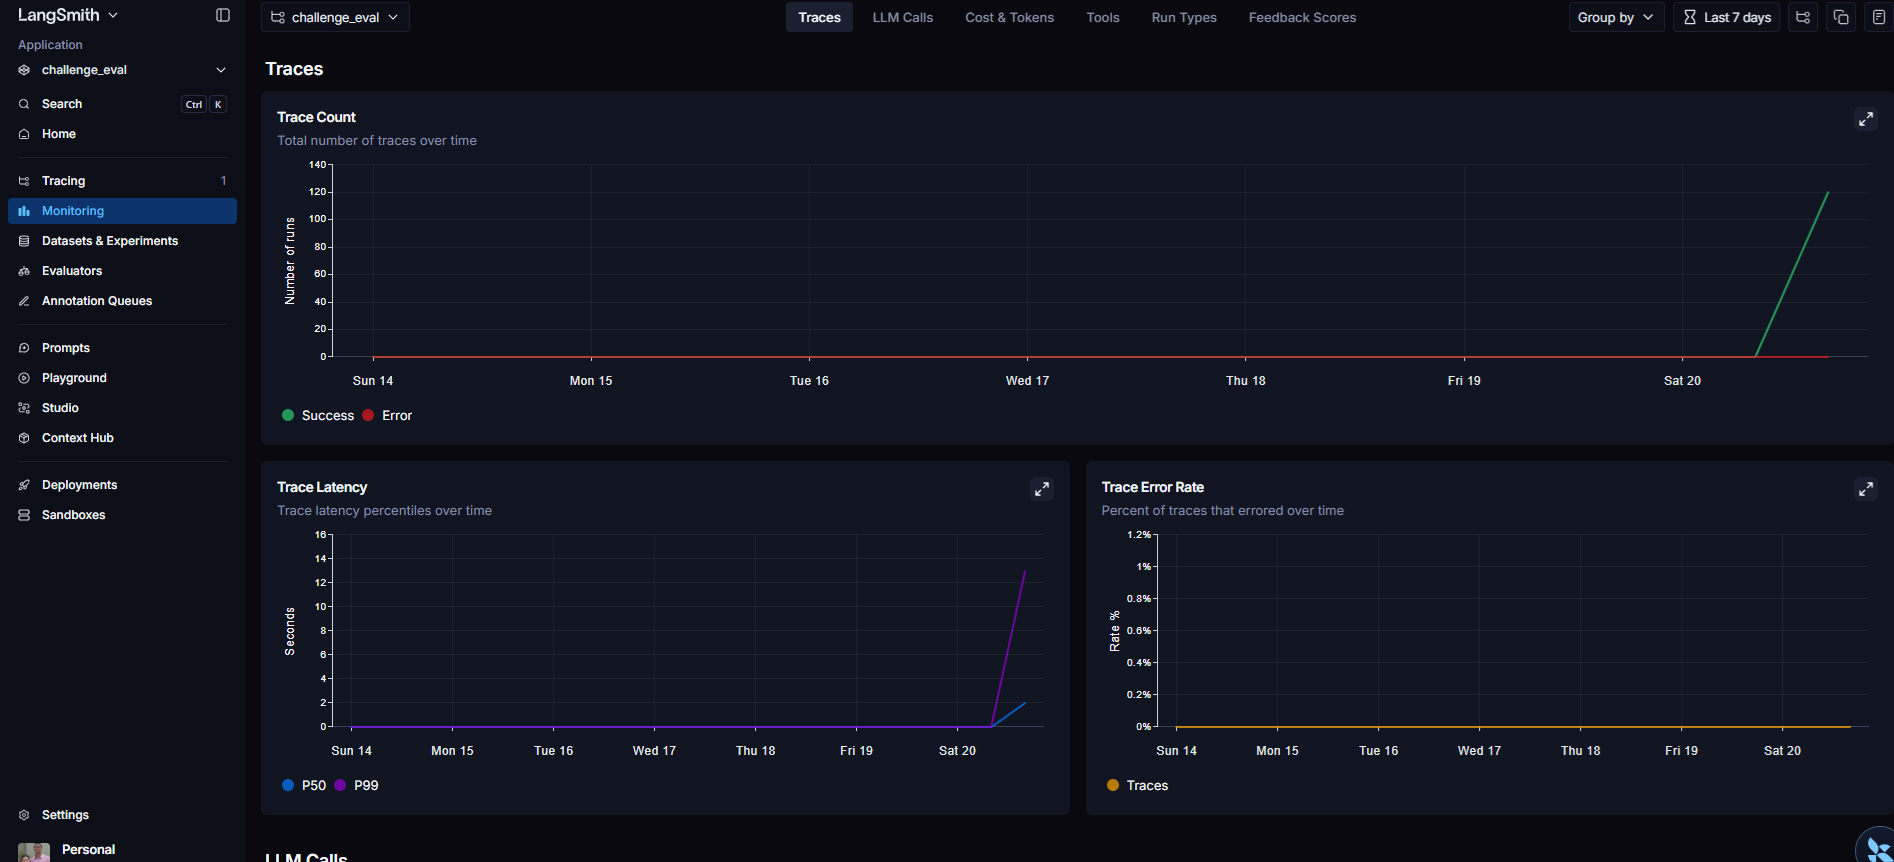
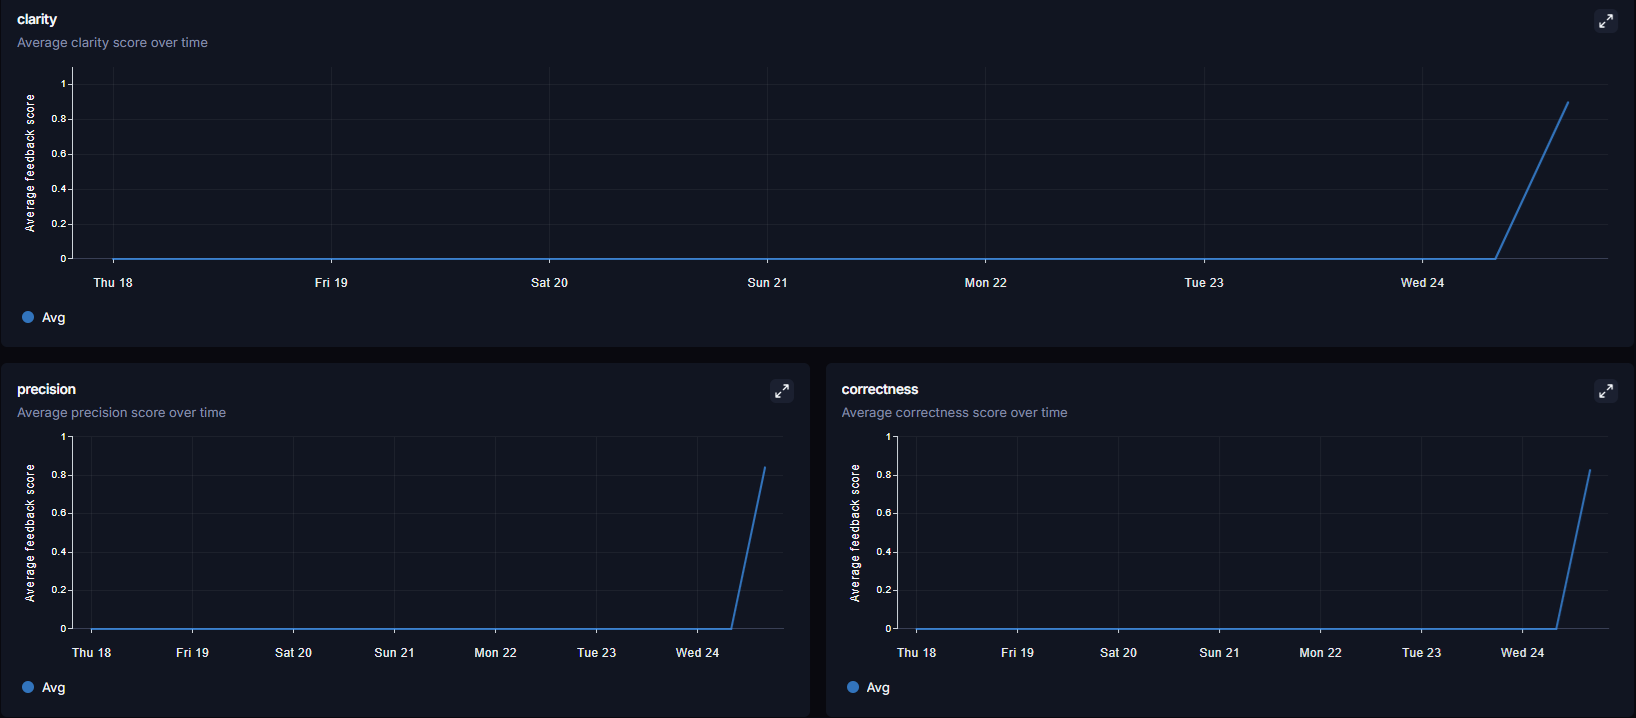
fix: ajustado read-me e print do dash

diff --git a/README.md b/README.md
@@ -1,321 +1,16 @@
 # Pull, Otimização e Avaliação de Prompts com LangChain e LangSmith
 
-## Objetivo
+  ### Como Executar
 
-Você deve entregar um software capaz de:
+  Esta seção descreve o fluxo completo para instalar dependências, configurar variáveis de ambiente, publicar prompt otimizado no LangSmith e rodar validações locais.
 
-1. **Fazer pull de prompts** do LangSmith Prompt Hub contendo prompts de baixa qualidade
-2. **Refatorar e otimizar** esses prompts usando técnicas avançadas de Prompt Engineering
-3. **Fazer push dos prompts otimizados** de volta ao LangSmith
-4. **Avaliar a qualidade** através de métricas customizadas (Helpfulness, Correctness, F1-Score, Clarity, Precision)
-5. **Atingir pontuação mínima** de 0.9 (90%) em todas as métricas de avaliação
-
----
-
-## Exemplo no CLI
-
-**Exemplo de prompt RUIM (v1) — apenas ilustrativo, para você entender o ponto de partida:**
-
-```
-==================================================
-Prompt: {seu_username}/bug_to_user_story_v1
-==================================================
-
-Métricas Derivadas:
-  - Helpfulness: 0.45 ✗
-  - Correctness: 0.52 ✗
-
-Métricas Base:
-  - F1-Score: 0.48 ✗
-  - Clarity: 0.50 ✗
-  - Precision: 0.46 ✗
-
-❌ STATUS: REPROVADO
-⚠️  Métricas abaixo de 0.9: helpfulness, correctness, f1_score, clarity, precision
-```
-
-**Exemplo de prompt OTIMIZADO (v2) — seu objetivo é chegar aqui:**
-
-```bash
-# Após refatorar os prompts e fazer push
-python src/push_prompts.py
-
-# Executar avaliação
-python src/evaluate.py
-
-Executando avaliação dos prompts...
-==================================================
-Prompt: {seu_username}/bug_to_user_story_v2
-==================================================
-
-Métricas Derivadas:
-  - Helpfulness: 0.94 ✓
-  - Correctness: 0.96 ✓
-
-Métricas Base:
-  - F1-Score: 0.93 ✓
-  - Clarity: 0.95 ✓
-  - Precision: 0.92 ✓
-
-✅ STATUS: APROVADO - Todas as métricas >= 0.9
-```
----
-
-## Tecnologias obrigatórias
-
-- **Linguagem:** Python 3.9+
-- **Framework:** LangChain
-- **Plataforma de avaliação:** LangSmith
-- **Gestão de prompts:** LangSmith Prompt Hub
-- **Formato de prompts:** YAML
-
----
-
-## Pacotes recomendados
-
-```python
-from langchain import hub  # Pull e Push de prompts
-from langsmith import Client  # Interação com LangSmith API
-from langsmith.evaluation import evaluate  # Avaliação de prompts
-from langchain_openai import ChatOpenAI  # LLM OpenAI
-from langchain_google_genai import ChatGoogleGenerativeAI  # LLM Gemini
-```
-
----
-
-## OpenAI
-
-- Crie uma **API Key** da OpenAI: https://platform.openai.com/api-keys
-- **Modelo de LLM para responder**: `gpt-4o-mini`
-- **Modelo de LLM para avaliação**: `gpt-4o`
-- **Custo estimado:** ~$1-5 para completar o desafio
-
-## Gemini (modelo free)
-
-- Crie uma **API Key** da Google: https://aistudio.google.com/app/apikey
-- **Modelo de LLM para responder**: `gemini-2.5-flash`
-- **Modelo de LLM para avaliação**: `gemini-2.5-flash`
-- **Limite:** 15 req/min, 1500 req/dia
-
----
-
-## Requisitos
-
-### 1. Pull do Prompt inicial do LangSmith
-
-O repositório base já contém prompts de **baixa qualidade** publicados no LangSmith Prompt Hub. Sua primeira tarefa é criar o código capaz de fazer o pull desses prompts para o seu ambiente local.
-
-**Tarefas:**
-
-1. Configurar suas credenciais do LangSmith no arquivo `.env` (conforme o arquivo `.env.example`)
-2. Implementar o script `src/pull_prompts.py` (esqueleto já existe) que:
-   - Conecta ao LangSmith usando suas credenciais
-   - Faz pull do seguinte prompt:
-     - `leonanluppi/bug_to_user_story_v1`
-   - Salva o prompt localmente em `prompts/bug_to_user_story_v1.yml`
-
----
-
-### 2. Otimização do Prompt
-
-Agora que você tem o prompt inicial, é hora de refatorá-lo usando as técnicas de prompt aprendidas no curso.
-
-**Tarefas:**
-
-1. Analisar o prompt em `prompts/bug_to_user_story_v1.yml`
-2. Criar um novo arquivo `prompts/bug_to_user_story_v2.yml` com suas versões otimizadas
-3. Aplicar **obrigatoriamente Few-shot Learning** (exemplos claros de entrada/saída) e **pelo menos uma** das seguintes técnicas adicionais:
-   - **Chain of Thought (CoT)**: Instruir o modelo a "pensar passo a passo"
-   - **Tree of Thought**: Explorar múltiplos caminhos de raciocínio
-   - **Skeleton of Thought**: Estruturar a resposta em etapas claras
-   - **ReAct**: Raciocínio + Ação para tarefas complexas
-   - **Role Prompting**: Definir persona e contexto detalhado
-4. Documentar no `README.md` quais técnicas você escolheu e por quê
-
-**Requisitos do prompt otimizado:**
-
-- Deve conter **instruções claras e específicas**
-- Deve incluir **regras explícitas** de comportamento
-- Deve ter **exemplos de entrada/saída** (Few-shot) — **obrigatório**
-- Deve incluir **tratamento de edge cases**
-- Deve usar **System vs User Prompt** adequadamente
-
----
-
-### 3. Push e Avaliação
-
-Após refatorar os prompts, você deve enviá-los de volta ao LangSmith Prompt Hub.
-
-**Tarefas:**
-
-1. Implementar o script `src/push_prompts.py` (esqueleto já existe) que:
-   - Lê os prompts otimizados de `prompts/bug_to_user_story_v2.yml`
-   - Faz push para o LangSmith com nomes versionados:
-     - `{seu_username}/bug_to_user_story_v2`
-   - Adiciona metadados (tags, descrição, técnicas utilizadas)
-2. Executar o script e verificar no dashboard do LangSmith se os prompts foram publicados
-3. Deixá-lo público
-
----
-
-### 4. Iteração
-
-- Espera-se 3-5 iterações.
-- Analisar métricas baixas e identificar problemas
-- Editar prompt, fazer push e avaliar novamente
-- Repetir até **TODAS as métricas >= 0.9**
-
-### Critério de Aprovação:
-
-```
-- Helpfulness >= 0.9
-- Correctness >= 0.9
-- F1-Score >= 0.9
-- Clarity >= 0.9
-- Precision >= 0.9
-
-MÉDIA das 5 métricas >= 0.9
-```
-
-**IMPORTANTE:** TODAS as 5 métricas devem estar >= 0.9, não apenas a média!
-
-### 5. Testes de Validação
-
-**O que você deve fazer:** Edite o arquivo `tests/test_prompts.py` e implemente, no mínimo, os 6 testes abaixo usando `pytest`:
-
-- `test_prompt_has_system_prompt`: Verifica se o campo existe e não está vazio.
-- `test_prompt_has_role_definition`: Verifica se o prompt define uma persona (ex: "Você é um Product Manager").
-- `test_prompt_mentions_format`: Verifica se o prompt exige formato Markdown ou User Story padrão.
-- `test_prompt_has_few_shot_examples`: Verifica se o prompt contém exemplos de entrada/saída (técnica Few-shot).
-- `test_prompt_no_todos`: Garante que você não esqueceu nenhum `[TODO]` no texto.
-- `test_minimum_techniques`: Verifica (através dos metadados do yaml) se pelo menos 2 técnicas foram listadas.
-
-**Como validar:**
-
-```bash
-pytest tests/test_prompts.py
-```
-
----
-
-## Estrutura obrigatória do projeto
-
-Faça um fork do repositório base: **[Clique aqui para o template](https://github.com/devfullcycle/mba-ia-pull-evaluation-prompt)**
-
-```
-mba-ia-pull-evaluation-prompt/
-├── .env.example              # Template das variáveis de ambiente
-├── requirements.txt          # Dependências Python
-├── README.md                 # Sua documentação do processo
-│
-├── prompts/
-│   ├── bug_to_user_story_v1.yml  # Prompt inicial (já incluso)
-│   └── bug_to_user_story_v2.yml  # Seu prompt otimizado (criar)
-│
-├── datasets/
-│   └── bug_to_user_story.jsonl   # 15 exemplos de bugs (já incluso)
-│
-├── src/
-│   ├── pull_prompts.py       # Pull do LangSmith (implementar)
-│   ├── push_prompts.py       # Push ao LangSmith (implementar)
-│   ├── evaluate.py           # Avaliação automática (pronto)
-│   ├── metrics.py            # 5 métricas implementadas (pronto)
-│   └── utils.py              # Funções auxiliares (pronto)
-│
-├── tests/
-│   └── test_prompts.py       # Testes de validação (implementar)
-│
-```
-
-**O que você deve implementar:**
-
-- `prompts/bug_to_user_story_v2.yml` — Criar do zero com seu prompt otimizado
-- `src/pull_prompts.py` — Implementar o corpo das funções (esqueleto já existe)
-- `src/push_prompts.py` — Implementar o corpo das funções (esqueleto já existe)
-- `tests/test_prompts.py` — Implementar os 6 testes de validação (esqueleto já existe)
-- `README.md` — Documentar seu processo de otimização
-
-**O que já vem pronto (não alterar):**
-
-- `src/evaluate.py` — Script de avaliação completo
-- `src/metrics.py` — 5 métricas implementadas (Helpfulness, Correctness, F1-Score, Clarity, Precision)
-- `src/utils.py` — Funções auxiliares
-- `datasets/bug_to_user_story.jsonl` — Dataset com 15 bugs (5 simples, 7 médios, 3 complexos)
-- Suporte multi-provider (OpenAI e Gemini)
-
-## Repositórios úteis
-
-- [Repositório boilerplate do desafio](https://github.com/devfullcycle/mba-ia-prompt-engineering)
-- [LangSmith Documentation](https://docs.smith.langchain.com/)
-- [Prompt Engineering Guide](https://www.promptingguide.ai/)
-
-## VirtualEnv para Python
-
-Crie e ative um ambiente virtual antes de instalar dependências:
-
-```bash
-python3 -m venv venv
-source venv/bin/activate  # No Windows: venv\Scripts\activate
-pip install -r requirements.txt
-```
-
----
-
-## Ordem de execução
-
-### 1. Executar pull dos prompts ruins
-
-```bash
-python src/pull_prompts.py
-```
-
-### 2. Refatorar prompts
-
-Edite manualmente o arquivo `prompts/bug_to_user_story_v2.yml` aplicando as técnicas aprendidas no curso.
-
-### 3. Fazer push dos prompts otimizados
-
-```bash
-python src/push_prompts.py
-```
-
-### 4. Executar avaliação
-
-```bash
-python src/evaluate.py
-```
-
----
-
-## Entregável
-
-1. **Repositório público no GitHub** (fork do repositório base) contendo:
-
-   - Todo o código-fonte implementado
-   - Arquivo `prompts/bug_to_user_story_v2.yml` 100% preenchido e funcional
-   - Arquivo `README.md` atualizado com:
-
-2. **README.md deve conter:**
-
-   A) **Seção "Técnicas Aplicadas (Fase 2)"**:
+  **Seção "Técnicas Aplicadas (Fase 2)"**:
 
     - persona-definition : Definir claramente a persona (ex: "Você é um Senior Product Owner com 10+ anos de experiência em times ágeis B2B e B2C.")
     - chain-of-thought-guardrails: Instruir o modelo a "pensar passo a passo" e fornecer raciocínio detalhado antes da resposta final.
     - structured-output-template: Fornecer um template claro para a resposta, como "User Story: [formato específico]" ou "Resposta em Markdown com seções claras".
     - few-shot-examples: Fornecer exemplos claros de entrada/saída no prompt para guiar o modelo.
     - self-checklist: Instruir o modelo a revisar sua resposta antes de finalizar, usando uma checklist de critérios (ex: "Revise sua resposta e verifique se atende aos seguintes critérios: [lista de critérios]").
-
-   B) **Seção "Resultados Finais"**:
-
-   - Link público do seu dashboard do LangSmith mostrando as avaliações
-   - Screenshots das avaliações com as notas mínimas de 0.9 atingidas
-   - Tabela comparativa: prompts ruins (v1) vs prompts otimizados (v2)
-
-   C) **Seção "Como Executar"**:
-
-  ### Como Executar
-
-  Esta seção descreve o fluxo completo para instalar dependências, configurar variáveis de ambiente, publicar prompt otimizado no LangSmith e rodar validações locais.
 
   **Pré-requisitos**
 
@@ -428,19 +123,31 @@ python src/evaluate.py
 
   **Fluxo de iteração**
 
-  Se alguma métrica ficar abaixo de `0.9`, ajuste `prompts/bug_to_user_story_v2.yml`, publique novamente e reavalie:
+  Se alguma métrica ficar abaixo de `0.8`, ajuste `prompts/bug_to_user_story_v2.yml`, publique novamente e reavalie:
 
   ```bash
   python src/push_prompts.py
   python src/evaluate.py
   pytest tests/test_prompts.py
   ```
+### Resultados Finais
+
+**Tabela comparativa v1 (baseline) vs v2 (otimizado)**
+
+| Métrica      | v1 (baseline) | v2 (otimizado) | Meta (≥ 0.8)   |
+|--------------|---------------|----------------|----------------|
+| Helpfulness  | 0.45 ✗        | 0.88 ✓         | ✅            |
+| Correctness  | 0.52 ✗        | 0.83 ✓         | ✅            |
+| F1-Score     | 0.48 ✗        | 0.82 ✓         | ✅            |
+| Clarity      | 0.50 ✗        | 0.91 ✓         | ✅            |
+| Precision    | 0.46 ✗        | 0.85 ✓         | ✅            |
+
 
 3. **Evidências no LangSmith**:
   - Screenshot do dashboard: [images/dash.png](images/dash.png)
   - Avalições retornadas:
   ``` bash
-  Prompt: {seu_username}/bug_to_user_story_v2
+  Prompt: luiz-guilherme-jesus/bug_to_user_story_v2
 
   Como um vendedor em campo, eu quero que o app de produtividade sincronize corretamente minhas tarefas offline, para que eu não perca dados importantes e possa gerenciar meus compromissos de forma eficaz.
 
@@ -484,7 +191,7 @@ D. Gerenciamento de Memória
 Impacto apos otimização:
 
 ```bash
- [1/15] F1:0.75 Clarity:0.85 Precision:0.90
+      [1/15] F1:0.75 Clarity:0.85 Precision:0.90
       [2/15] F1:0.75 Clarity:0.90 Precision:0.90
       [3/15] F1:0.85 Clarity:0.90 Precision:0.90
       [4/15] F1:0.69 Clarity:0.85 Precision:0.67
@@ -517,12 +224,3 @@ Métricas Base:
 📊 MÉDIA GERAL: 0.8579
 ```
 
-## Dicas Finais
-
-- **Lembre-se da importância da especificidade, contexto e persona** ao refatorar prompts
-- **Use Few-shot Learning com 2-3 exemplos claros** para melhorar drasticamente a performance
-- **Chain of Thought (CoT)** é excelente para tarefas que exigem raciocínio complexo (como análise de bugs)
-- **Use o Tracing do LangSmith** como sua principal ferramenta de debug - ele mostra exatamente o que o LLM está "pensando"
-- **Não altere os datasets de avaliação** - apenas os prompts em `prompts/bug_to_user_story_v2.yml`
-- **Itere, itere, itere** - é normal precisar de 3-5 iterações para atingir 0.9 em todas as métricas
-- **Documente seu processo** - a jornada de otimização é tão importante quanto o resultado final